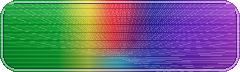
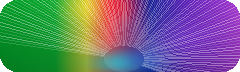
Refine SS badge background

diff --git a/app/style.css b/app/style.css
@@ -1498,14 +1498,11 @@ button.ghost {
   color: #fff;
   text-shadow: 0 1px 1px rgba(0, 0, 0, 0.25);
   background-color: #5d2cc0;
-  background-image: url("./images/badges/ss-category-badge-bg.png?v=20260504-ssbadge");
+  background-image: url("./images/badges/ss-category-badge-bg.png?v=20260504-ssbadge2");
   background-position: center;
   background-repeat: no-repeat;
   background-size: 100% 100%;
-  box-shadow:
-    inset 0 1px 0 rgba(255, 255, 255, 0.38),
-    inset 0 -1px 0 rgba(32, 36, 86, 0.48),
-    0 0 0 1px rgba(118, 90, 170, 0.45);
+  box-shadow: none;
 }
 
 .type-badge.cat-cm {

diff --git a/app/myteam.html b/app/myteam.html
@@ -9,7 +9,7 @@
   <link rel="icon" type="image/png" sizes="32x32" href="./favicon-32x32.png?v=20260324-013653" />
   <link rel="icon" type="image/png" sizes="16x16" href="./favicon-16x16.png?v=20260324-013653" />
   <link rel="shortcut icon" href="./favicon.ico?v=20260324-013653" />
-  <link rel="stylesheet" href="./style.css?v=20260504-ssbadge" />
+  <link rel="stylesheet" href="./style.css?v=20260504-ssbadge2" />
 </head>
 <body class="myteam-page">
   <main class="container">

diff --git a/app/coaches.html b/app/coaches.html
@@ -12,7 +12,7 @@
   <link rel="icon" type="image/png" sizes="32x32" href="./favicon-32x32.png?v=20260324-013653" />
   <link rel="icon" type="image/png" sizes="16x16" href="./favicon-16x16.png?v=20260324-013653" />
   <link rel="shortcut icon" href="./favicon.ico?v=20260324-013653" />
-  <link rel="stylesheet" href="./style.css?v=20260504-ssbadge" />
+  <link rel="stylesheet" href="./style.css?v=20260504-ssbadge2" />
 </head>
 <body>
   <main class="container">

diff --git a/app/formations.html b/app/formations.html
@@ -12,7 +12,7 @@
   <link rel="icon" type="image/png" sizes="32x32" href="./favicon-32x32.png?v=20260324-013653" />
   <link rel="icon" type="image/png" sizes="16x16" href="./favicon-16x16.png?v=20260324-013653" />
   <link rel="shortcut icon" href="./favicon.ico?v=20260324-013653" />
-  <link rel="stylesheet" href="./style.css?v=20260504-ssbadge" />
+  <link rel="stylesheet" href="./style.css?v=20260504-ssbadge2" />
 </head>
 <body>
   <main class="container">

diff --git a/app/index.html b/app/index.html
@@ -12,7 +12,7 @@
   <link rel="icon" type="image/png" sizes="32x32" href="./favicon-32x32.png?v=20260324-013653" />
   <link rel="icon" type="image/png" sizes="16x16" href="./favicon-16x16.png?v=20260324-013653" />
   <link rel="shortcut icon" href="./favicon.ico?v=20260324-013653" />
-  <link rel="stylesheet" href="./style.css?v=20260504-ssbadge" />
+  <link rel="stylesheet" href="./style.css?v=20260504-ssbadge2" />
 </head>
 <body>
   <main class="container">
